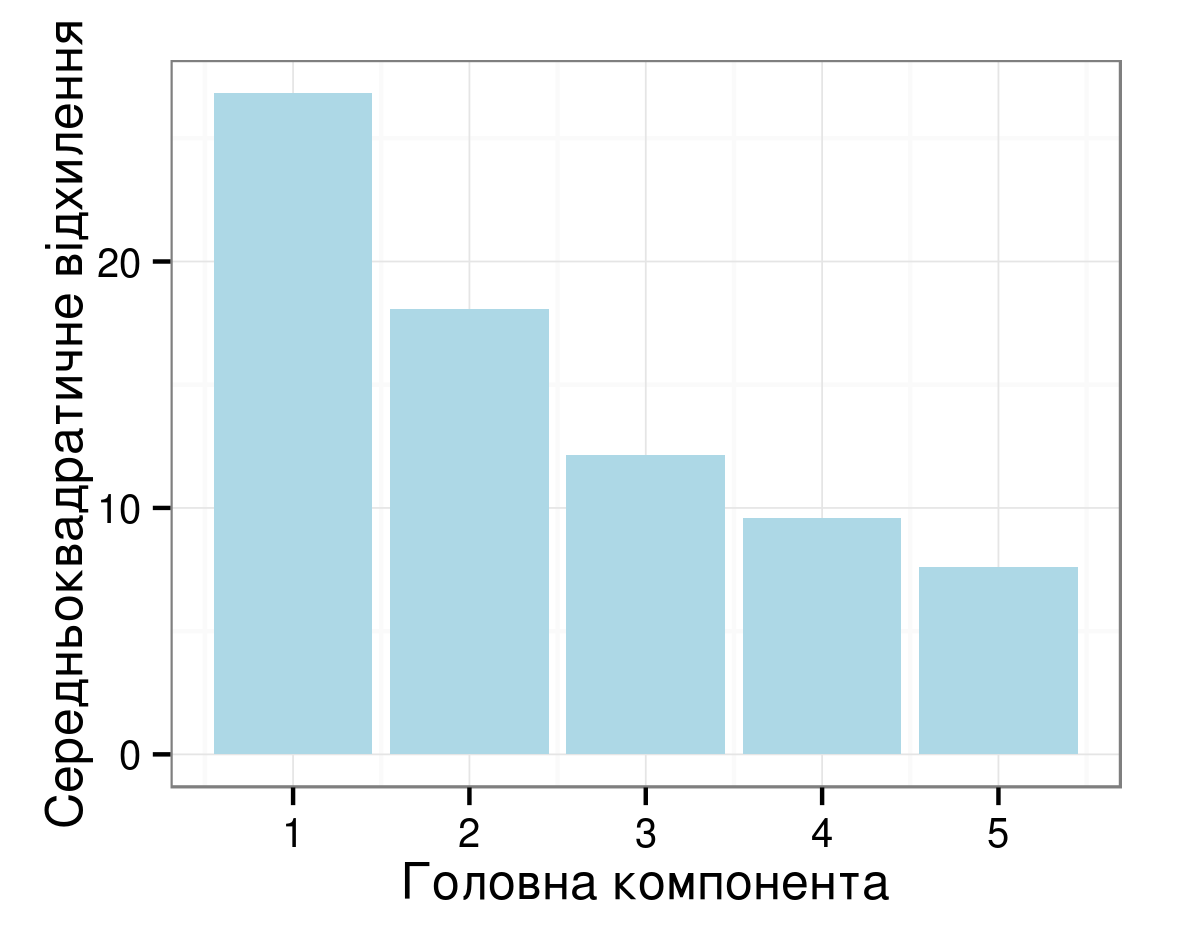
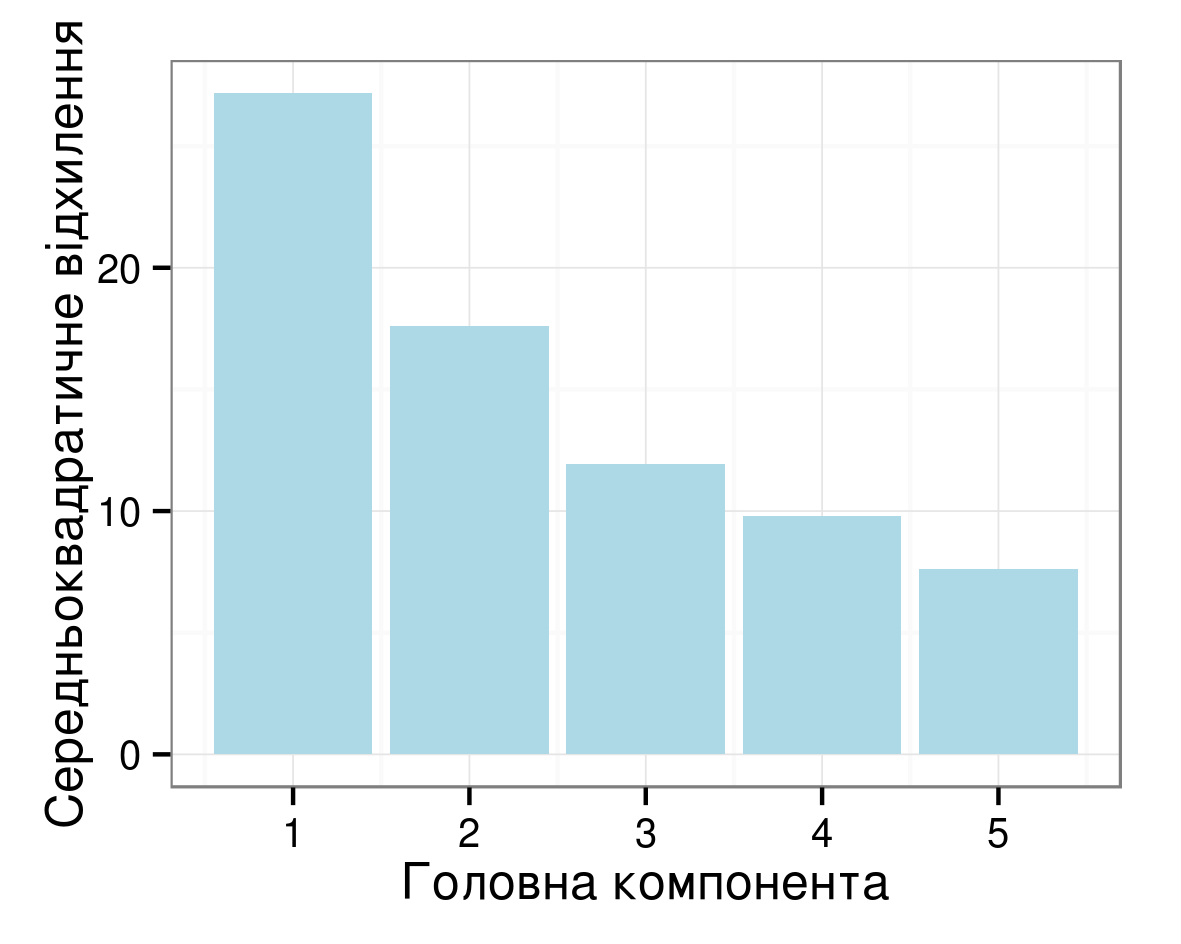
Regenerated results

diff --git a/thesis/6_practice/pca.tex b/thesis/6_practice/pca.tex
@@ -1,5 +1,5 @@
-\def\firstComponentProportion{43.22}
-\def\thinkersPredictionQuality{84}
-\def\learnersPredictionQuality{94}
-\def\testThinkersPredictionQuality{82\%, 83\%, 80\%, 78\%}
-\def\testLearnersPredictionQuality{94\%, 94\%, 93\%, 96\%}
+\def\firstComponentProportion{44.72}
+\def\thinkersPredictionQuality{91}
+\def\learnersPredictionQuality{89}
+\def\testThinkersPredictionQuality{85\%, 89\%, 86\%, 83\%}
+\def\testLearnersPredictionQuality{93\%, 93\%, 88\%, 93\%}
